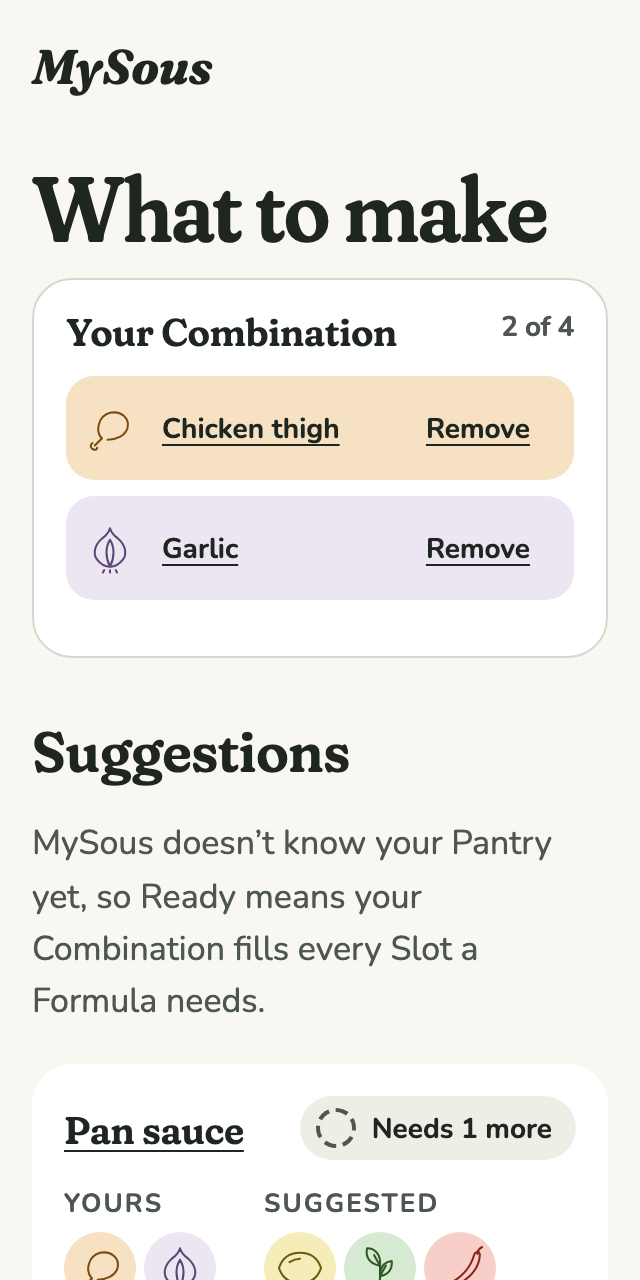
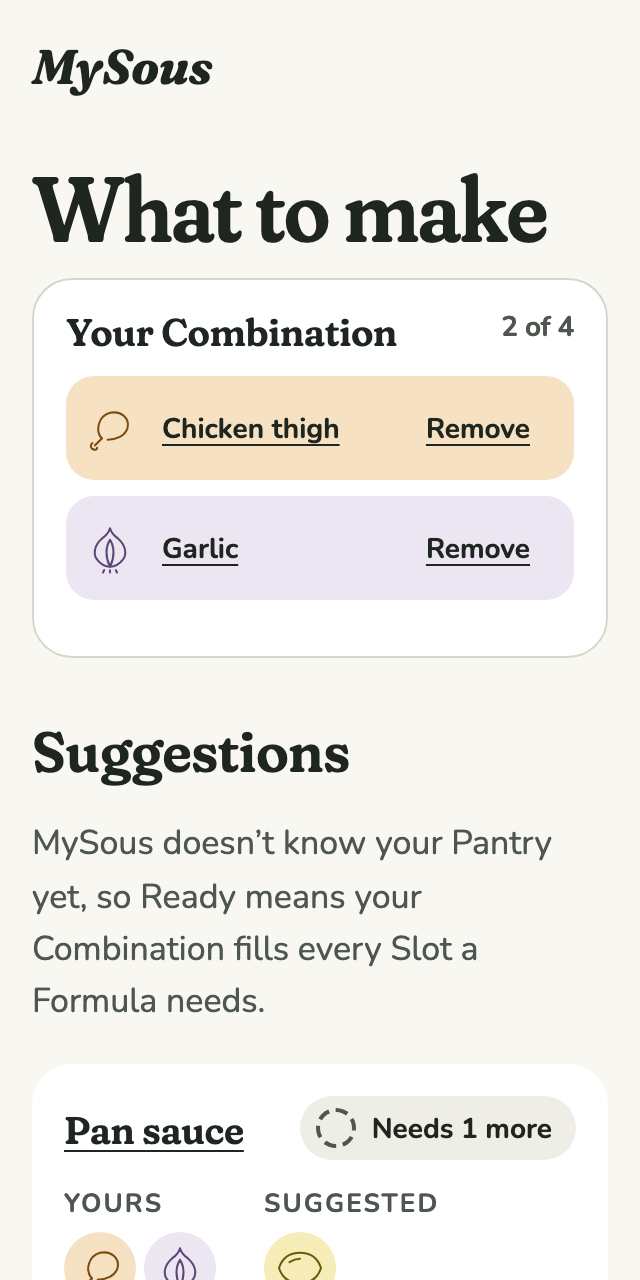
Address review: needs as filled Slots, one isCooksOwn, Optional group, Ready and undone shots

Changed region(s): [[0.5312, 0.9375, 0.7812, 1.0]]

diff --git a/src/app/suggestions/suggestion-list.tsx b/src/app/suggestions/suggestion-list.tsx
@@ -12,6 +12,7 @@ import { TrayView } from "@/components/TrayView";
 import {
   COMBINATION_LIMIT,
   inSentence,
+  isCooksOwn,
   type CombinationFix,
   type Suggestion,
   type Tension,
@@ -95,8 +96,8 @@ export const SuggestionList = withSearchParams(
           Suggestions
         </h2>
         <p className="muted">
-          MySous doesn&rsquo;t know your Pantry yet, so Ready means your Combination fills every Slot a Formula
-          needs.
+          MySous doesn&rsquo;t know your Pantry yet, so Ready means your Combination fills every Slot a
+          Formula needs.
         </p>
         <ul className="stack" aria-labelledby="suggestions-heading">
           {suggestions.map((suggestion) => (
@@ -115,12 +116,16 @@ export const SuggestionList = withSearchParams(
 function SuggestionCard({ suggestion }: { suggestion: Suggestion }) {
   const { formula, slots, rankReason, needs, makeable } = suggestion;
   const yours = slots.flatMap(({ ingredient, source }) =>
-    ingredient && (source === "combination" || source === "pantry") ? [ingredient] : [],
+    ingredient && isCooksOwn(source) ? [ingredient] : [],
   );
-  const suggested = slots.flatMap(({ ingredient, source }) =>
-    ingredient && source === "pairing" ? [ingredient] : [],
+  // Suggested: what a required Slot still needs. Optional: extras that pair, which never block Ready.
+  const suggested = slots.flatMap(({ slot, ingredient, source }) =>
+    ingredient && source === "pairing" && slot.required ? [ingredient] : [],
   );
-  const open = slots.filter(({ slot, ingredient }) => slot.required && !ingredient).length;
+  const optional = slots.flatMap(({ slot, ingredient, source }) =>
+    ingredient && source === "pairing" && !slot.required ? [ingredient] : [],
+  );
+  const open = needs.filter(({ ingredient }) => !ingredient).length;
   return (
     <ListRow
       title={
@@ -128,7 +133,7 @@ function SuggestionCard({ suggestion }: { suggestion: Suggestion }) {
           <CombinationLink href={`/formulas/${formula.id}`}>{formula.name}</CombinationLink>
         </h3>
       }
-      action={<Readiness needs={needs.length} />}
+      action={<Readiness missing={needs.length} />}
     >
       <div className="mark-groups">
         {yours.length > 0 && <MarkGroup label="Yours" ingredients={yours} />}
@@ -136,10 +141,10 @@ function SuggestionCard({ suggestion }: { suggestion: Suggestion }) {
           <MarkGroup
             label="Suggested"
             ingredients={suggested}
-            empty={open}
-            emptyLabel={`${open} Slot${open === 1 ? "" : "s"} nothing pairs with yet`}
+            empty={{ count: open, label: `${open} Slot${open === 1 ? "" : "s"} nothing pairs with yet` }}
           />
         )}
+        {optional.length > 0 && <MarkGroup label="Optional" ingredients={optional} />}
       </div>
       {!makeable && <p className="needs">{readinessSentence(suggestion)}</p>}
       <p className="rank-reason">{rankReason}</p>

diff --git a/src/kitchen/kitchen.test.ts b/src/kitchen/kitchen.test.ts
@@ -357,7 +357,7 @@ describe("loadKitchen", () => {
       ]);
     });
 
-    it("is makeable when the Combination fills every required Slot, and otherwise names what it needs", async () => {
+    it("is makeable when the Combination fills every required Slot, else names what it needs", async () => {
       const kitchen = await expectKitchen(writeContent(fixture));
 
       const { suggestions } = kitchen.suggest(kitchen.combination(["garlic", "lemon"]).ingredients, []);
@@ -366,7 +366,7 @@ describe("loadKitchen", () => {
       // The optional herb is empty, which doesn't stop a pan sauce.
       expect(panSauce).toMatchObject({ makeable: true, needs: [] });
       expect(herbSalad.makeable).toBe(false);
-      expect(herbSalad.needs.map(({ id }) => id)).toEqual(["first-herb", "second-herb"]);
+      expect(herbSalad.needs.map(({ slot }) => slot.id)).toEqual(["first-herb", "second-herb"]);
     });
 
     it("counts the Pantry towards makeable, like the Combination", async () => {
@@ -382,7 +382,10 @@ describe("loadKitchen", () => {
 
     it("still needs a required Slot that only a Pairing suggestion or a swap fills", async () => {
       const kitchen = await expectKitchen(
-        writeContent({ ...fixture, pairings: [{ ingredients: ["garlic", "lemon"], reasons: [reason("A note.")] }] }),
+        writeContent({
+          ...fixture,
+          pairings: [{ ingredients: ["garlic", "lemon"], reasons: [reason("A note.")] }],
+        }),
       );
 
       const { suggestions } = kitchen.suggest(kitchen.combination(["garlic"]).ingredients, []);
@@ -390,7 +393,7 @@ describe("loadKitchen", () => {
 
       expect(panSauce.slots.find(({ slot }) => slot.id === "acid")).toMatchObject({ source: "pairing" });
       expect(panSauce.makeable).toBe(false);
-      expect(panSauce.needs.map(({ id }) => id)).toEqual(["acid"]);
+      expect(panSauce.needs.map(({ slot }) => slot.id)).toEqual(["acid"]);
     });
 
     it("gives the same Suggestions every time for the same Combination", async () => {

diff --git a/src/kitchen/kitchen.ts b/src/kitchen/kitchen.ts
@@ -56,6 +56,11 @@ export type Combination = {
 /** Where a Slot's Ingredient came from: in fill order, then a swap by the Cook. */
 export type FillSource = "combination" | "pantry" | "pairing" | "swap";
 
+/** Whether the Cook has the Ingredient: it's in the Combination or Pantry, not suggested or swapped in. */
+export function isCooksOwn(source: FillSource | undefined): boolean {
+  return source === "combination" || source === "pantry";
+}
+
 /** A Slot in a Suggestion, with the Ingredient chosen for it, if any, and why. */
 export type FilledSlot = {
   slot: Slot;
@@ -77,8 +82,8 @@ export type Suggestion = {
   method: string[];
   /** Why the Suggestion ranked where it did, in a plain sentence. */
   rankReason: string;
-  /** The required Slots the Combination and Pantry don't fill, in Formula order. */
-  needs: Slot[];
+  /** The required Slots the Combination and Pantry don't fill, as filled so far, in Formula order. */
+  needs: FilledSlot[];
   /** Whether the Combination and Pantry together fill every required Slot. */
   makeable: boolean;
 };
@@ -324,9 +329,7 @@ export function createKitchen(content: KitchenContent): Kitchen {
     );
     const rankReason = explainRank(chosen, arePaired, pairs);
     // What the Cook has: a Pairing suggestion or a swap may still need getting.
-    const needs = slots
-      .filter(({ slot, source }) => slot.required && source !== "combination" && source !== "pantry")
-      .map(({ slot }) => slot);
+    const needs = slots.filter(({ slot, source }) => slot.required && !isCooksOwn(source));
     return {
       suggestion: { formula, slots, method, rankReason, needs, makeable: needs.length === 0 },
       coherence: pairs.length,

diff --git a/src/components/MarkGroup.tsx b/src/components/MarkGroup.tsx
@@ -6,16 +6,15 @@ type Props = {
   /** What the group is, in a word or two, such as "Yours" or "Suggested". */
   label: string;
   ingredients: IngredientLook[];
-  /** Slots with nothing in them, shown as empty circles after the drawings. */
-  empty?: number;
-  /** How the empty Slots read to assistive technology, such as "1 Slot open". */
-  emptyLabel?: string;
+  /** Slots with nothing in them, shown as empty circles after the drawings, and how they read to
+   * assistive technology, such as "1 Slot nothing pairs with yet". */
+  empty?: { count: number; label: string };
 };
 
 /** A labelled row of small drawings; assistive technology hears the label and the names. */
-export function MarkGroup({ label, ingredients, empty = 0, emptyLabel }: Props) {
+export function MarkGroup({ label, ingredients, empty }: Props) {
   const names = ingredients.map(({ name }) => name.toLowerCase());
-  if (empty > 0 && emptyLabel) names.push(emptyLabel);
+  if (empty?.count) names.push(empty.label);
   return (
     <div className={styles.group}>
       <span className={styles.label}>
@@ -26,7 +25,7 @@ export function MarkGroup({ label, ingredients, empty = 0, emptyLabel }: Props) 
         {ingredients.map((ingredient) => (
           <IngredientMark key={ingredient.id} ingredient={ingredient} size="sm" />
         ))}
-        {Array.from({ length: empty }, (_, i) => (
+        {Array.from({ length: empty?.count ?? 0 }, (_, i) => (
           <EmptyMark key={i} />
         ))}
       </span>

diff --git a/src/app/design/specimen.tsx b/src/app/design/specimen.tsx
@@ -95,8 +95,8 @@ export function Specimen({ ingredients }: { ingredients: SpecimenIngredient[] })
         Whether a Suggestion is ready, and where its Ingredients come from, always in words.
       </p>
       <div className="actions" style={{ alignItems: "center" }}>
-        <Readiness needs={0} />
-        <Readiness needs={2} />
+        <Readiness missing={0} />
+        <Readiness missing={2} />
         <EmptyMark />
       </div>
       <div className="mark-groups" style={{ marginTop: "var(--space-4)" }}>
@@ -104,8 +104,7 @@ export function Specimen({ ingredients }: { ingredients: SpecimenIngredient[] })
         <MarkGroup
           label="Suggested"
           ingredients={ingredients.slice(2, 3)}
-          empty={1}
-          emptyLabel="1 Slot nothing pairs with yet"
+          empty={{ count: 1, label: "1 Slot nothing pairs with yet" }}
         />
       </div>
 

diff --git a/src/components/Readiness.tsx b/src/components/Readiness.tsx
@@ -1,13 +1,13 @@
 import styles from "./Readiness.module.css";
 
 /**
- * Whether a Suggestion can be made with what the Cook has: "Ready", or how many required Slots it
- * still needs. Words carry the meaning; the icon only echoes them.
+ * Whether a Suggestion can be made with what the Cook has: "Ready", or how many required Slots are
+ * still missing. Words carry the meaning; the icon only echoes them.
  */
-export function Readiness({ needs }: { needs: number }) {
+export function Readiness({ missing }: { missing: number }) {
   return (
-    <span className={`${styles.readiness} ${needs === 0 ? styles.ready : styles.needs}`}>
-      {needs === 0 ? "Ready" : `Needs ${needs} more`}
+    <span className={`${styles.readiness} ${missing === 0 ? styles.ready : styles.needs}`}>
+      {missing === 0 ? "Ready" : `Needs ${missing} more`}
     </span>
   );
 }

diff --git a/src/app/readiness.ts b/src/app/readiness.ts
@@ -4,9 +4,12 @@ const and = new Intl.ListFormat("en", { type: "conjunction" });
 
 /** Whether a Suggestion is ready, or what it still needs and what would fill it, in one sentence. */
 export function readinessSentence({ makeable, needs, slots }: Suggestion): string {
-  if (makeable) return "Ready with your Combination.";
-  const parts = needs.map((slot) => {
-    const { ingredient, source } = slots.find((filled) => filled.slot === slot)!;
+  if (makeable) {
+    return slots.some(({ source }) => source === "pantry")
+      ? "Ready with your Combination and Pantry."
+      : "Ready with your Combination.";
+  }
+  const parts = needs.map(({ slot, ingredient, source }) => {
     if (!ingredient) return `${slot.role} (nothing pairs yet)`;
     return source === "swap"
       ? `${slot.role} (you chose ${inSentence(ingredient)})`

diff --git a/e2e/suggestions.spec.ts b/e2e/suggestions.spec.ts
@@ -30,7 +30,9 @@ test("a Suggestion that needs more says how many, what, and what pairs best", as
   await expect(panSauce).toContainText("Needs 1 more");
   await expect(panSauce).toContainText("Also needs an acid (lemon pairs best).");
   await expect(panSauce.getByText(/^Yours/)).toHaveText("Yours: chicken thigh, garlic.");
-  await expect(panSauce.getByText(/^Suggested/)).toContainText("lemon");
+  // Only the acid is needed; the basil and chile that pair are optional extras, kept apart.
+  await expect(panSauce.getByText(/^Suggested/)).toHaveText("Suggested: lemon.");
+  await expect(panSauce.getByText(/^Optional/)).toHaveText("Optional: basil, fresh chile.");
 });
 
 test("What to make says Ready only covers the Combination while MySous doesn't know the Pantry", async ({

diff --git a/e2e/accessibility.spec.ts b/e2e/accessibility.spec.ts
@@ -77,6 +77,7 @@ for (const colorScheme of ["light", "dark"] as const) {
       await expectNoViolations(page);
       await acid.getByRole("button", { name: /^Use / }).first().click();
       await expect(acid.getByRole("button", { name: /^Undo swap/ })).toBeFocused();
+      await expect(page.getByRole("status")).not.toBeEmpty();
       await expectNoViolations(page);
     });
   });

diff --git a/src/app/formulas/[id]/formula-fill.tsx b/src/app/formulas/[id]/formula-fill.tsx
@@ -89,7 +89,7 @@ function SlotEditor({ initial }: { initial: Suggestion }) {
   return (
     <>
       <div className="formula-readiness">
-        <Readiness needs={current.suggestion.needs.length} />
+        <Readiness missing={current.suggestion.needs.length} />
         <p>{readinessSentence(current.suggestion)}</p>
       </div>
       <h2>What goes in</h2>

diff --git a/docs/journal/0010-suggestions-and-formula.md b/docs/journal/0010-suggestions-and-formula.md
@@ -1,6 +1,6 @@
 # 0010 · Suggestions and Formula
 
-Milestone: #16 (part of #2). What to make and the Formula page reach final quality: every Suggestion says whether it's ready and where its Ingredients come from, gaps are named honestly, and swapping a Slot can be undone where it happened.
+Milestone: #16 (part of #2). What to make and the Formula page reach final quality: every Suggestion says whether it's ready and where its Ingredients come from, gaps are named honestly, and swapping a Slot can be undone where the swap happened.
 
 ## Before and after
 
@@ -10,32 +10,35 @@ The "before" shots are what `main` showed when this work began. The 320px and zo
 | --- | --- | --- |
 | What to make, desktop light | ![](0010-suggestions-and-formula/before-suggestions-desktop-light.png) | ![](0010-suggestions-and-formula/after-suggestions-desktop-light.png) |
 | What to make, phone dark | ![](0010-suggestions-and-formula/before-suggestions-phone-dark.png) | ![](0010-suggestions-and-formula/after-suggestions-phone-dark.png) |
+| Ready (chicken thigh, garlic, lemon), desktop light | (new) | ![](0010-suggestions-and-formula/after-suggestions-ready-desktop-light.png) |
 | A tension (chicken thigh, basil, ginger), desktop light | ![](0010-suggestions-and-formula/before-suggestions-tension-desktop-light.png) | ![](0010-suggestions-and-formula/after-suggestions-tension-desktop-light.png) |
 | No Combination, phone dark | ![](0010-suggestions-and-formula/before-suggestions-empty-phone-dark.png) | ![](0010-suggestions-and-formula/after-suggestions-empty-phone-dark.png) |
 | Pan sauce, desktop light | ![](0010-suggestions-and-formula/before-formula-desktop-light.png) | ![](0010-suggestions-and-formula/after-formula-desktop-light.png) |
 | A Slot nothing pairs with (sheet-pan roast with ginger), phone dark | ![](0010-suggestions-and-formula/before-formula-missing-phone-dark.png) | ![](0010-suggestions-and-formula/after-formula-missing-phone-dark.png) |
 | Swap list open, desktop dark | (new) | ![](0010-suggestions-and-formula/after-formula-swaplist-desktop-dark.png) |
 | Swapped, with its Undo, phone light | (new) | ![](0010-suggestions-and-formula/after-formula-swapped-phone-light.png) |
+| Undone, phone light | (new) | ![](0010-suggestions-and-formula/after-formula-undone-phone-light.png) |
+| Pan sauce ready (chicken thigh, garlic, lemon), phone dark | (new) | ![](0010-suggestions-and-formula/after-formula-ready-phone-dark.png) |
 | What to make at 320px | ![](0010-suggestions-and-formula/before-suggestions-320-light.png) | ![](0010-suggestions-and-formula/after-suggestions-320-light.png) |
 | Pan sauce at 200% zoom (640×360) | ![](0010-suggestions-and-formula/before-formula-zoom200-light.png) | ![](0010-suggestions-and-formula/after-formula-zoom200-light.png) |
 
-All 32 shots are in `0010-suggestions-and-formula/`.
+All 35 shots are in `0010-suggestions-and-formula/`.
 
 ## Decisions
 
 The direction in 0002 settled the Ingredient page. These screens follow its language (drawings on their washes, neutral interface colour, soft serif headings), and the author chose each treatment below from options.
 
-**A Suggestion says whether it's ready, in words.** Each card leads with a badge: "Ready", with a tick, or "Needs 1 more", with an open dashed circle like an empty Slot. When it needs more, a line says what and what would fill it: "Also needs an acid (lemon pairs best)." The badge's colour echoes the words but never stands in for them.
+**A Suggestion says whether it's ready, in words.** Each card leads with a badge: "Ready", with a tick, or "Needs 1 more", with an open dashed circle like an empty Slot. When it needs more, a line says what and what would fill it: "Also needs an acid (lemon pairs best)." The badge's colour echoes the words but never stands in for them. Ready uses the solid ink fill of a primary button; 0002 keeps colour from signalling state, and this fill is neutral ink rather than a hue, but it is strong, so it waits for the author's approval (see Open).
 
-**Ready means the Combination covers it, while MySous doesn't know the Pantry.** The Kitchen now gives each Suggestion `needs`, the required Slots its Combination and Pantry don't fill, and `makeable`, true when there are none. A Slot filled by a Pairing suggestion, or by a swap, still counts as needed: the Cook may not have it. There's no way to enter a Pantry yet, so What to make says so, once, above the Suggestions: "MySous doesn't know your Pantry yet, so Ready means your Combination fills every Slot a Formula needs." That sentence is the empty-Pantry state; when the Pantry arrives, it goes.
+**Ready means the Combination covers it, while MySous doesn't know the Pantry.** The Kitchen now gives each Suggestion `needs`, the required Slots its Combination and Pantry don't fill (with whatever fills them so far), and `makeable`, true when there are none. A Slot filled by a Pairing suggestion, or by a swap, still counts as needed: the Cook may not have it. There's no way to enter a Pantry yet, so What to make says so, once, above the Suggestions: "MySous doesn't know your Pantry yet, so Ready means your Combination fills every Slot a Formula needs." That sentence is the empty-Pantry state; when the Pantry arrives, it goes, and a Suggestion the Pantry helps fill reads "Ready with your Combination and Pantry."
 
-**Where each Ingredient comes from, at a glance.** A card shows its Ingredients as drawings in two labelled groups, "Yours" and "Suggested". A required Slot nothing pairs with is a dashed empty circle in the Suggested group. Assistive technology hears each label with its names ("Yours: chicken thigh, garlic.").
+**Where each Ingredient comes from, at a glance.** A card shows its Ingredients as drawings in labelled groups: "Yours", "Suggested" for what a required Slot still needs, and "Optional" for extras that pair but never block Ready. A required Slot nothing pairs with is a dashed empty circle in the Suggested group. Keeping the optional extras apart means "Needs 1 more" sits beside one suggested drawing, not three. Assistive technology hears each label with its names ("Yours: chicken thigh, garlic.").
 
 **On the Formula page, every Slot says where its Ingredient came from.** A tag under the name says Yours, Suggested or Swapped, and Optional when the Slot is. The same readiness badge and sentence sit under the Formula's description and follow every swap, so "Also needs an acid (lemon pairs best)" becomes "Also needs an acid (you chose lime)". A Slot nothing pairs with shows an empty circle and "Nothing yet", and its alternatives open under "Choose" rather than "Swap".
 
 **Alternatives are chips with their drawings.** Each one is a button named "Use Lime" for assistive technology and voice control, showing the drawing and "Lime".
 
-**Undo sits on the Slot that was just swapped.** The old "Undo swap" by the heading looked disabled until there was something to undo, and sat away from the change. Now only the latest swap's Slot offers Undo, named "Undo swap of an acid", and focus moves to it after a swap. Undoing moves focus to the swap before, if there is one, so the Cook can keep undoing, and otherwise to the Slot's heading. Both changes are announced from the page's live region and shown as a toast, like Combination changes ("Lime is now an acid. Undo brings back lemon.", "Undone: Lemon is an acid again.").
+**Undo sits on the latest swapped Slot.** The old "Undo swap" by the heading looked disabled until there was something to undo, and sat away from the change. Now only the latest swap's Slot offers Undo, named "Undo swap of an acid", and focus moves to it after a swap. Undoing moves focus to the swap before, if there is one, so the Cook can keep undoing, and otherwise to the Slot's heading. Both changes are announced from the page's live region and shown as a toast, like Combination changes ("Lime is now an acid. Undo brings back lemon.", "Undone: Lemon is an acid again.").
 
 **A tension shows both Ingredients.** Each line in "Not everything pairs yet" has the two drawings before the sentence that names them.
 
@@ -49,7 +52,7 @@ The direction in 0002 settled the Ingredient page. These screens follow its lang
 
 **Status: waiting for the author.** Suggestions → Formula → swap → undo, on an iPhone and a Mac:
 
-1. Open What to make with chicken thigh and garlic. On the Pan sauce card, expect the heading "Pan sauce", then "Needs 1 more", "Yours: chicken thigh, garlic.", "Suggested: lemon, basil, fresh chile.", and "Also needs an acid (lemon pairs best)."
+1. Open What to make with chicken thigh and garlic. On the Pan sauce card, expect the heading "Pan sauce", then "Needs 1 more", "Yours: chicken thigh, garlic.", "Suggested: lemon.", "Optional: basil, fresh chile.", and "Also needs an acid (lemon pairs best)."
 2. Open Pan sauce. Expect "Needs 1 more" and the same sentence under the description. Each Slot reads its role (a heading), its Ingredient, and its tag ("Suggested").
 3. On "an acid", open "Swap an acid" and choose "Use Lime". Expect "Lime is now an acid. Undo brings back lemon." Focus is on "Undo swap of an acid". The readiness sentence now ends "(you chose lime)".
 4. Activate Undo. Expect "Undone: Lemon is an acid again." Focus moves to the heading "an acid".
@@ -60,4 +63,5 @@ Record anything that differs here, with the device and OS version.
 ## Open
 
 - **Author review gate:** the shots above and the preview deploy.
+- **Author approval:** the Ready badge's solid ink fill (see the first decision).
 - The VoiceOver pass above. #16 shouldn't close until its notes are recorded here.
